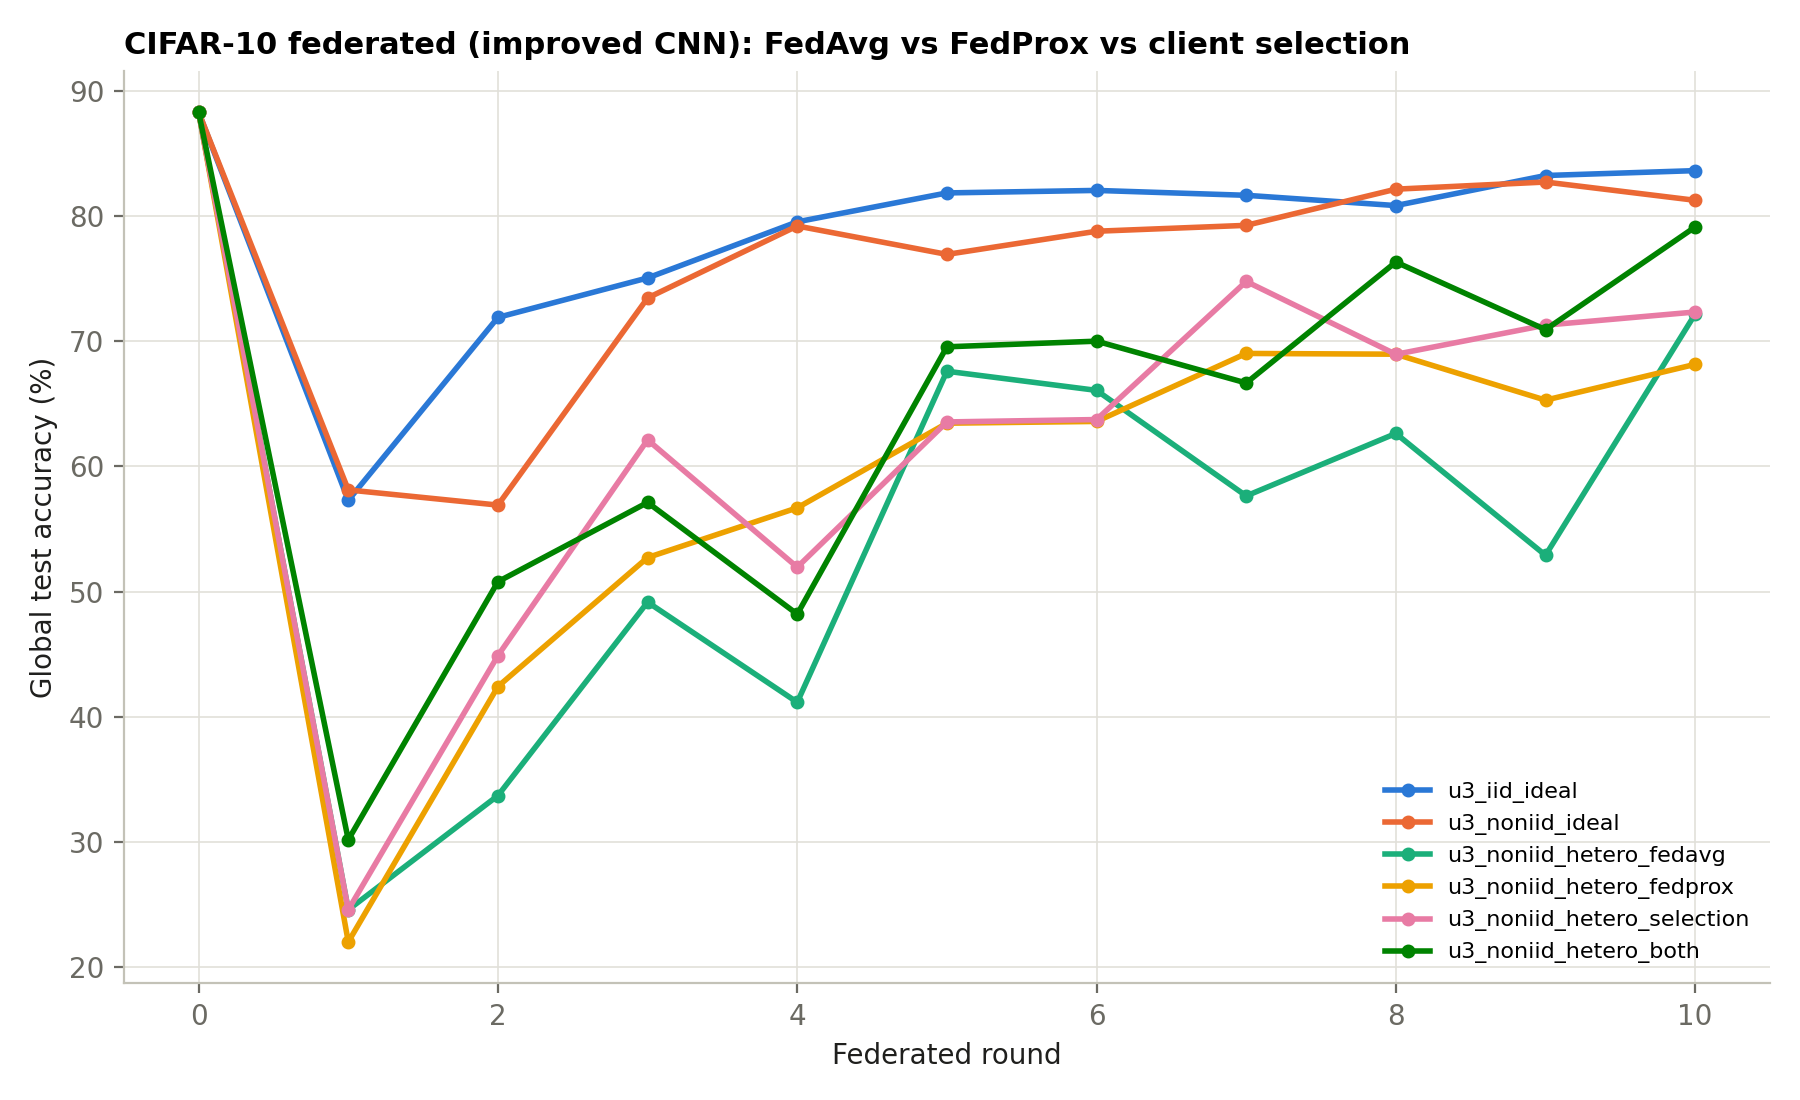
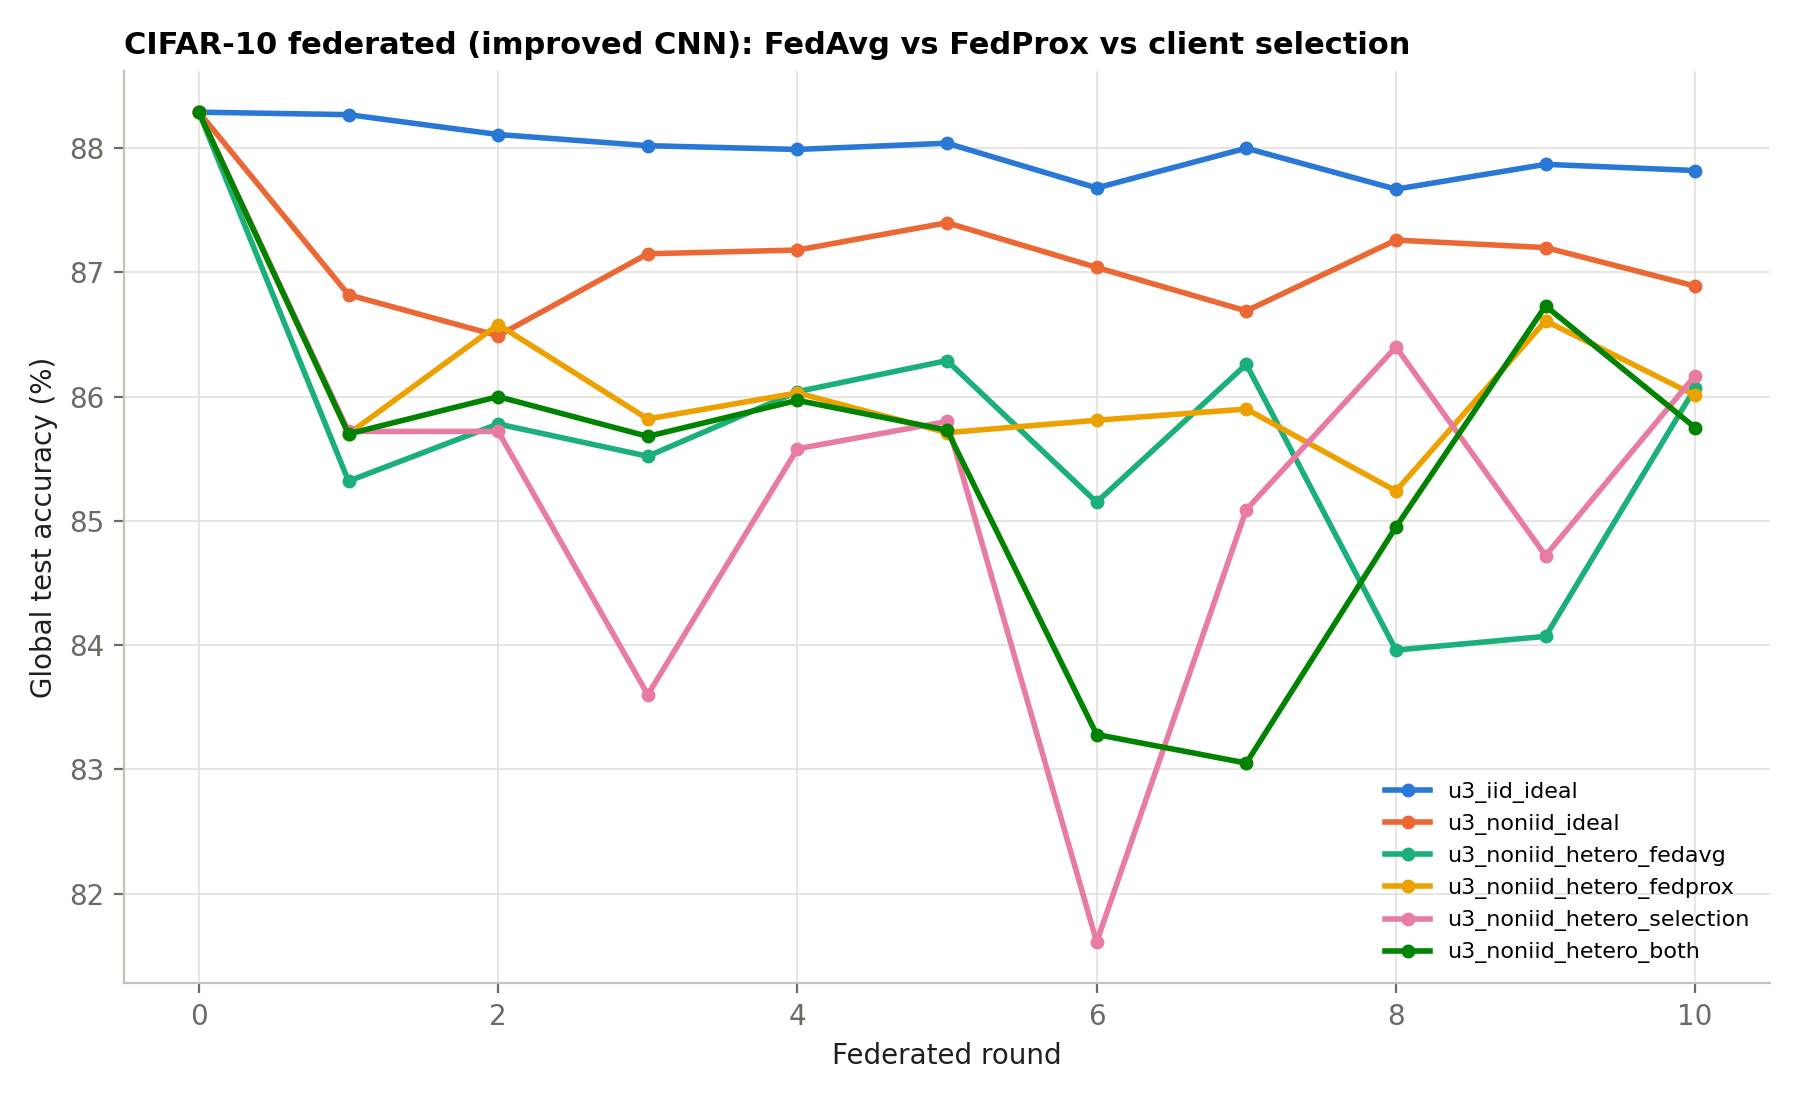
Fix federated fine-tuning (lr 0.003, rescaled tiers) and rerun Update 2 and 3 from tuned checkpoint

diff --git a/cifar10/federated_noniid.py b/cifar10/federated_noniid.py
@@ -49,10 +49,10 @@ def evaluate(model, loader):
         seen += x.size(0)
     return total_loss / seen, correct / seen
 CLIENT_TIERS = {
-    "high": {"ram_mb": 64.0, "threads": 4, "cpu_speed": 1.00, "bandwidth_mbps": 50.0, "dropout": 0.02},
-    "mid":  {"ram_mb": 8.0,  "threads": 2, "cpu_speed": 0.60, "bandwidth_mbps": 10.0, "dropout": 0.05},
-    "low":  {"ram_mb": 4.0,  "threads": 1, "cpu_speed": 0.35, "bandwidth_mbps": 1.0,  "dropout": 0.10},
-    "tiny": {"ram_mb": 1.0,  "threads": 1, "cpu_speed": 0.20, "bandwidth_mbps": 0.25, "dropout": 0.15},
+    "high": {"ram_mb": 256.0, "threads": 4, "cpu_speed": 1.00, "bandwidth_mbps": 100.0, "dropout": 0.02},
+    "mid":  {"ram_mb": 64.0,  "threads": 2, "cpu_speed": 0.60, "bandwidth_mbps": 50.0,  "dropout": 0.05},
+    "low":  {"ram_mb": 16.0,  "threads": 1, "cpu_speed": 0.35, "bandwidth_mbps": 20.0,  "dropout": 0.10},
+    "tiny": {"ram_mb": 8.0,   "threads": 1, "cpu_speed": 0.20, "bandwidth_mbps": 5.0,   "dropout": 0.15},
 }
 TIER_MIX = ["high", "high", "mid", "mid", "mid", "low", "low", "low", "tiny", "tiny"]
  
@@ -326,7 +326,7 @@ def parse_args():
     p.add_argument("--rounds", type=int, default=20)
     p.add_argument("--local-epochs", type=int, default=1)
     p.add_argument("--batch-size", type=int, default=32)
-    p.add_argument("--lr", type=float, default=0.03)
+    p.add_argument("--lr", type=float, default=0.003, help="small because we fine-tune the tuned 88% model")
     p.add_argument("--ram-policy", choices=["adapt", "drop"], default="adapt")
     p.add_argument("--deadline-factor", type=float, default=4.0,
                    help="hetero only: drop clients slower than factor x fastest (0 = no deadline)")

diff --git a/cifar10/federated_update3.py b/cifar10/federated_update3.py
@@ -242,7 +242,7 @@ def parse_args():
     p.add_argument("--rounds", type=int, default=10)
     p.add_argument("--local-epochs", type=int, default=1)
     p.add_argument("--batch-size", type=int, default=32)
-    p.add_argument("--lr", type=float, default=0.03)
+    p.add_argument("--lr", type=float, default=0.003, help="small because we fine-tune the tuned 88% model")
     p.add_argument("--deadline-factor", type=float, default=4.0)
     p.add_argument("--safety", type=float, default=0.8, help="selection plans for 80%% of the deadline")
     p.add_argument("--min-work", type=float, default=0.1, help="skip clients that can do less than this")
